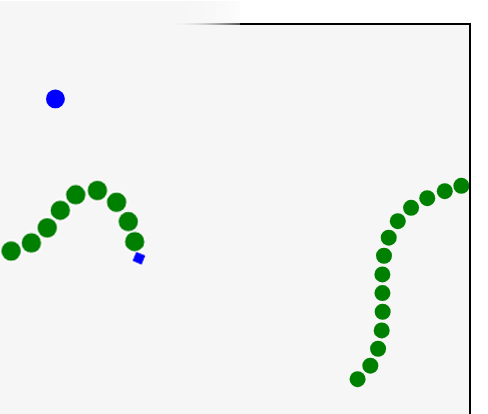
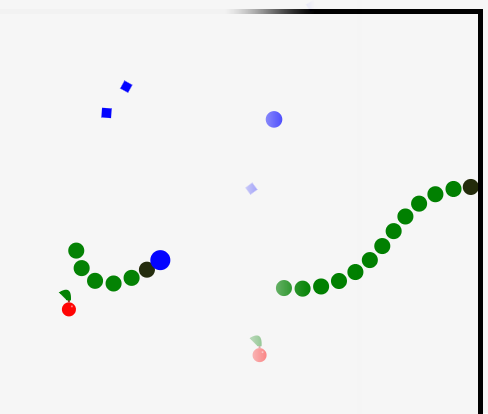
10주차(중간대체 과제)입니다.
10주차(중간대체 과제)입니다!~
수정 해서 다시 올립니다

diff --git a/202227042_SnakeGame/sources/script.js b/202227042_SnakeGame/sources/script.js
@@ -60,10 +60,16 @@ window.onload = function () {
   inGame.style.display = "none";
 };
 
-// 마우스 이벤트 리스너
+// 현재: 캔버스 내부의 마우스 움직임만 추적
 canvas.addEventListener("mousemove", (event) => {
-  lastMousePos = getMousePos(canvas, event); // 마우스 움직임 감지
+  lastMousePos = getMousePos(canvas, event);
 });
+
+// 변경: 문서 전체의 마우스 움직임 추적
+document.addEventListener("mousemove", (event) => {
+  lastMousePos = getMousePos(canvas, event);
+});
+
 
 canvas.addEventListener("mousedown", () => {
   isFast = true; // 마우스 클릭 시 가속
@@ -134,12 +140,13 @@ function getMousePos(canvas, event) {
   };
 }
 
-// 랜덤 위치 생성 함수
+// 사과 랜덤 위치 생성 함수
 function getRandomPosition() {
-  const x = Math.random() * (canvas.width - 10 * appleRadius) + appleRadius;
-  const y = Math.random() * (canvas.height - 10 * appleRadius) + appleRadius;
+  const x = Math.random() * (canvas.width - 30 * appleRadius) + 15 * appleRadius;
+  const y = Math.random() * (canvas.height - 30 * appleRadius) + 15 * appleRadius;
   return { x, y };
 }
+
 
 // 이징 관련 변수
 let easeAmount = 0.1; // 이징이 적용되는 정도 (0 ~ 1 사이의 값)
@@ -350,10 +357,19 @@ function checkObsCollisions() {
 /* 그리기 관련 함수들 -----------------------------------------*/
 // 뱀 그리기 함수
 function drawSnake() {
-  for (let segment of snake) {
+  // 먼저 뱀 머리를 그림
+  ctx.beginPath();
+  ctx.arc(snake[0].x, snake[0].y, snakeRadius, 0, Math.PI * 2);
+  ctx.fillStyle = "#222A0A"; // 뱀 머리 색상을 노란색으로 변경  
+  ctx.fill();
+  
+  ctx.closePath();
+
+  // 나머지 뱀 몸통 부분을 그림
+  for (let i = 1; i < snake.length; i++) { // i를 1부터 시작
     ctx.beginPath();
-    ctx.arc(segment.x, segment.y, snakeRadius, 0, Math.PI * 2);
-    ctx.fillStyle = "green";
+    ctx.arc(snake[i].x, snake[i].y, snakeRadius, 0, Math.PI * 2);
+    ctx.fillStyle = "green"; // 나머지 부분은 기존 색상으로 유지
     ctx.fill();
     ctx.closePath();
   }
@@ -391,9 +407,6 @@ function drawApple() {
   ctx.fill();
   ctx.closePath();
 }
-
-
-
 
 // 장애물 그리기 함수
 function drawObstacles() {
@@ -465,8 +478,7 @@ function gameLoop() {
       createObstacle();
     }
     updateObstacles();
-    render();
-
+    render();    
     requestAnimationFrame(gameLoop); // 다음 애니메이션 프레임 요청
   }
 }
@@ -493,9 +505,8 @@ function gameOver() {
 // 재시작 함수
 function restartGame() {
   // 게임 상태 초기화
-  let obstacleChance = 0.01;
-  // 최대 장애물 수
-  let maxObstacles = 10;
+  obstacleChance = 0.01; // 'let' 키워드 제거하여 전역 변수를 참조하도록 변경
+  maxObstacles = 10; // 'let' 키워드 제거하여 전역 변수를 참조하도록 변경
 
   // 난이도 설정 초기화
   maxSize = 10;
@@ -503,6 +514,8 @@ function restartGame() {
 
   maxSpeed = 1.0;
   minSpeed = 0.5;
+
+  lastDifficultyIncrease = 0; // 난이도 증가 시간을 초기화
 
   gameStarted = true;
   isFast = false;
@@ -516,4 +529,8 @@ function restartGame() {
   obstacles = [];
   lastMousePos = { x: canvas.width / 2, y: canvas.height / 2 };
   startTime = Date.now(); // 게임 시작 시간을 재설정
+
+  // 게임 루프를 다시 시작
+  //requestAnimationFrame(gameLoop);
 }
+
